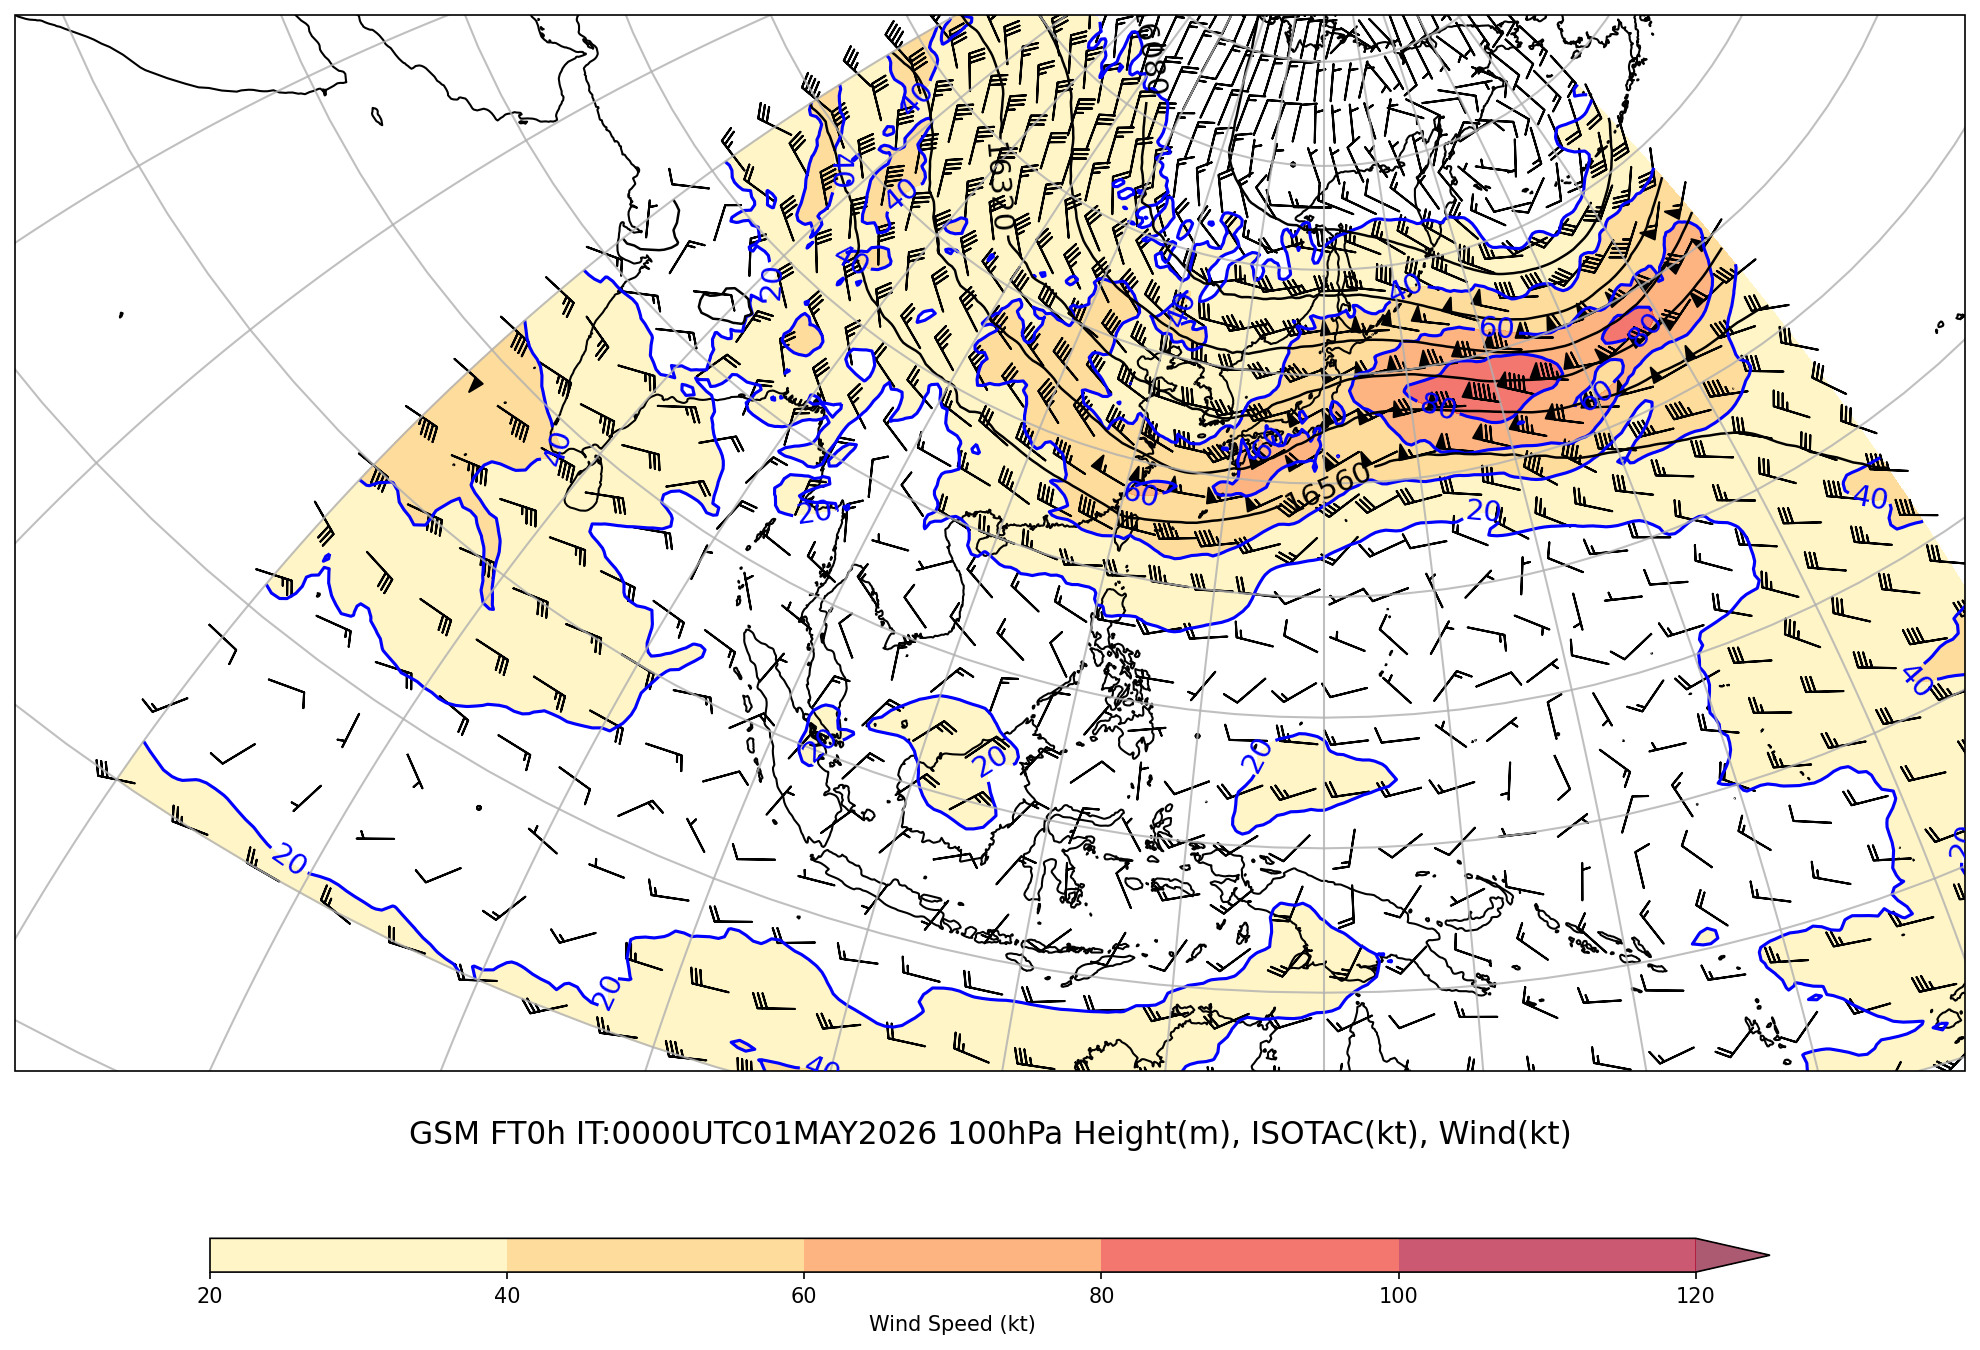
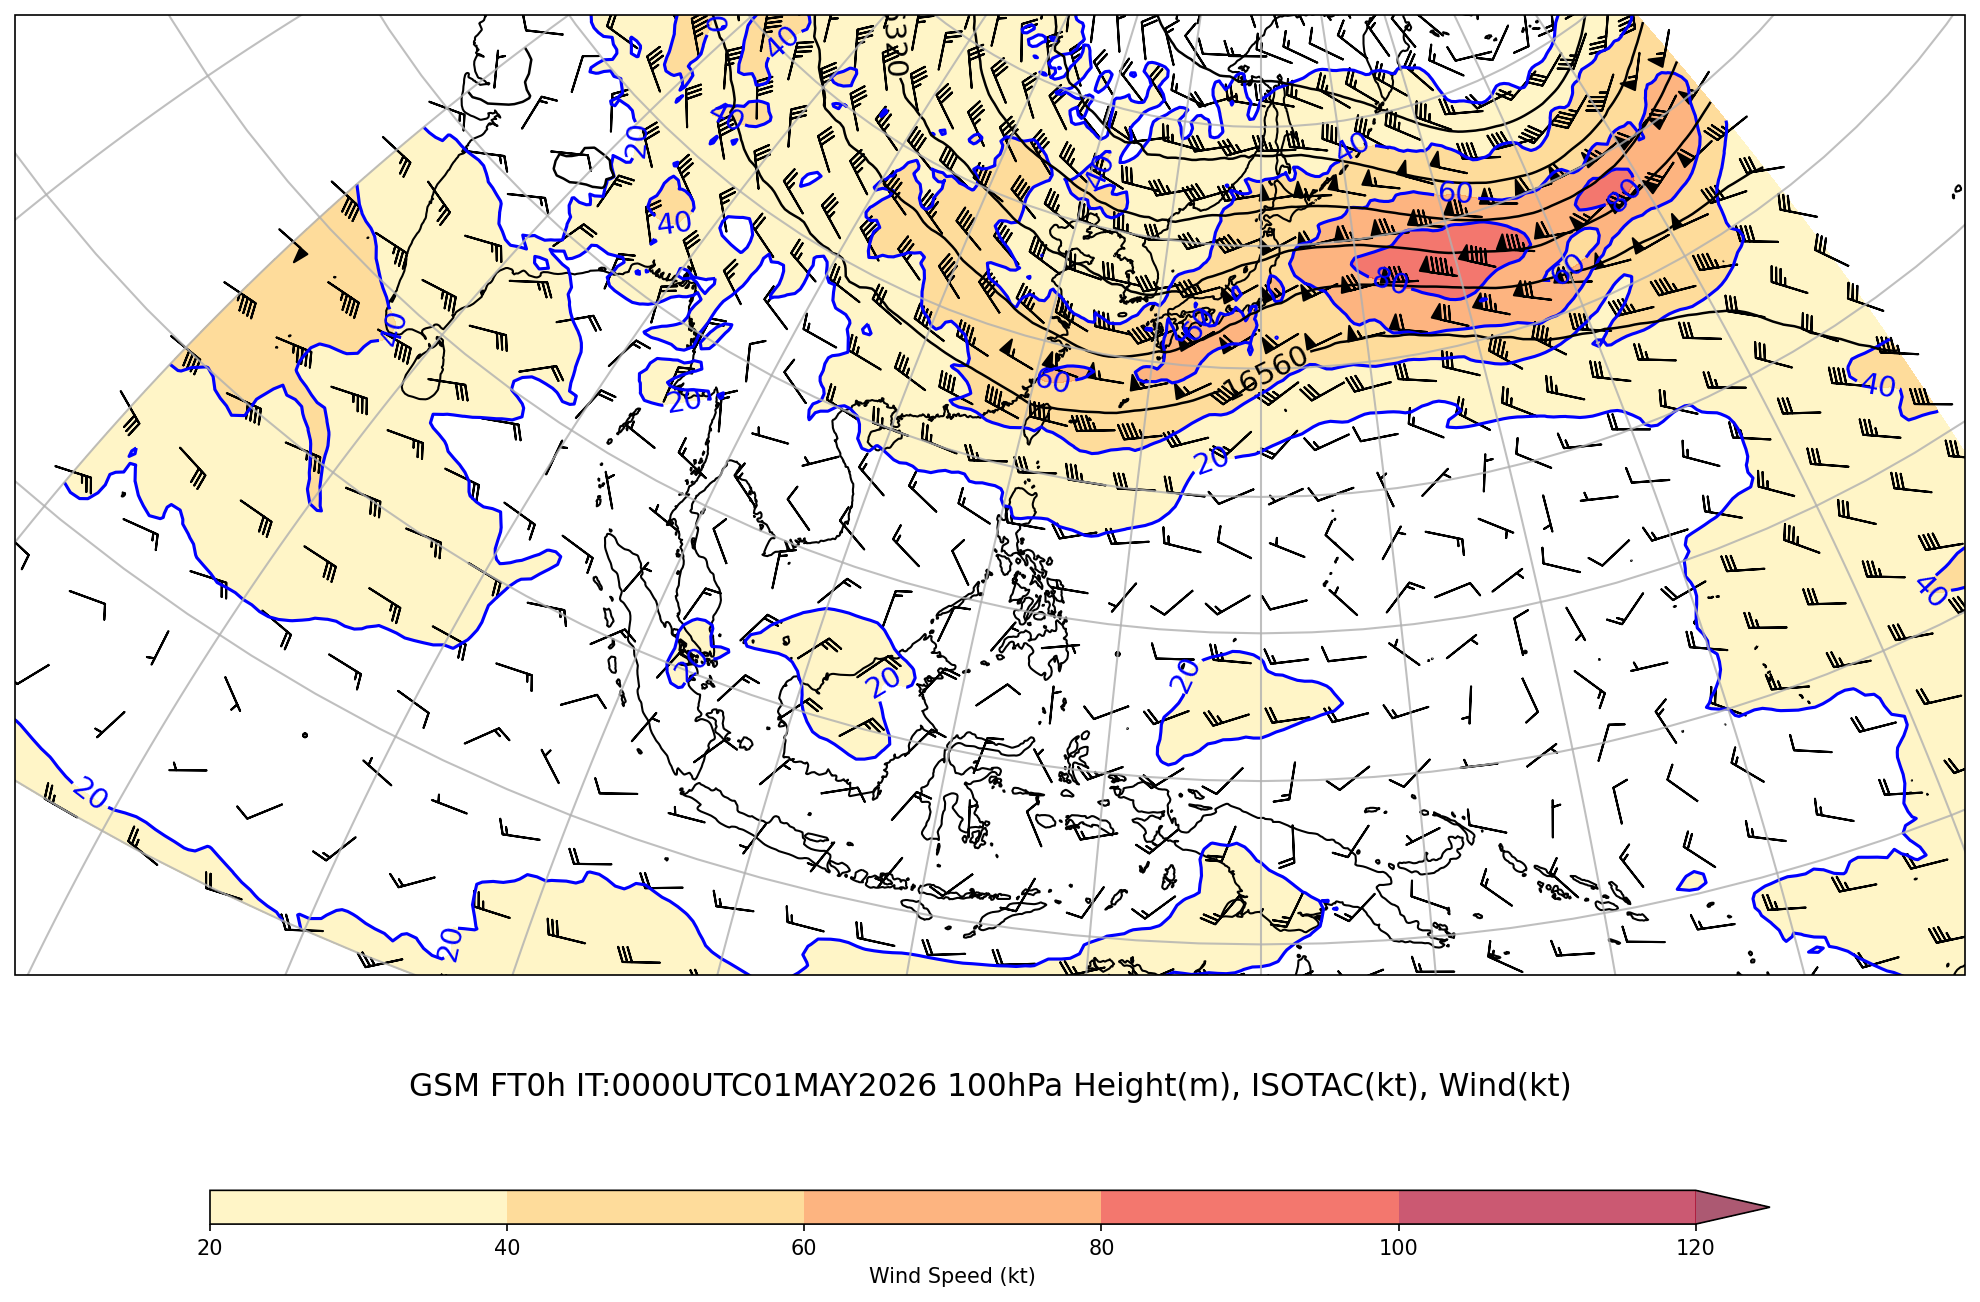
report: ジェット・前線解析ワイドレポート追加 FT0 (2026050100)

diff --git a/reports/2026050100-wide/jet_front_wide_report_FT0.md b/reports/2026050100-wide/jet_front_wide_report_FT0.md
@@ -2,7 +2,7 @@
 
 **初期時刻**: 2026/05/01 00UTC
 
-*(描画領域: 上層 lonW=60 lonE=180 latS=-15 latN=40、850hPa lonW=97 lonE=169 latS=-2.5 latN=42.5)*
+*(描画領域: 上層 lonW=70 lonE=180 latS=-12 latN=30、850hPa lonW=97 lonE=169 latS=-2.5 latN=42.5)*
 
 ---
 
